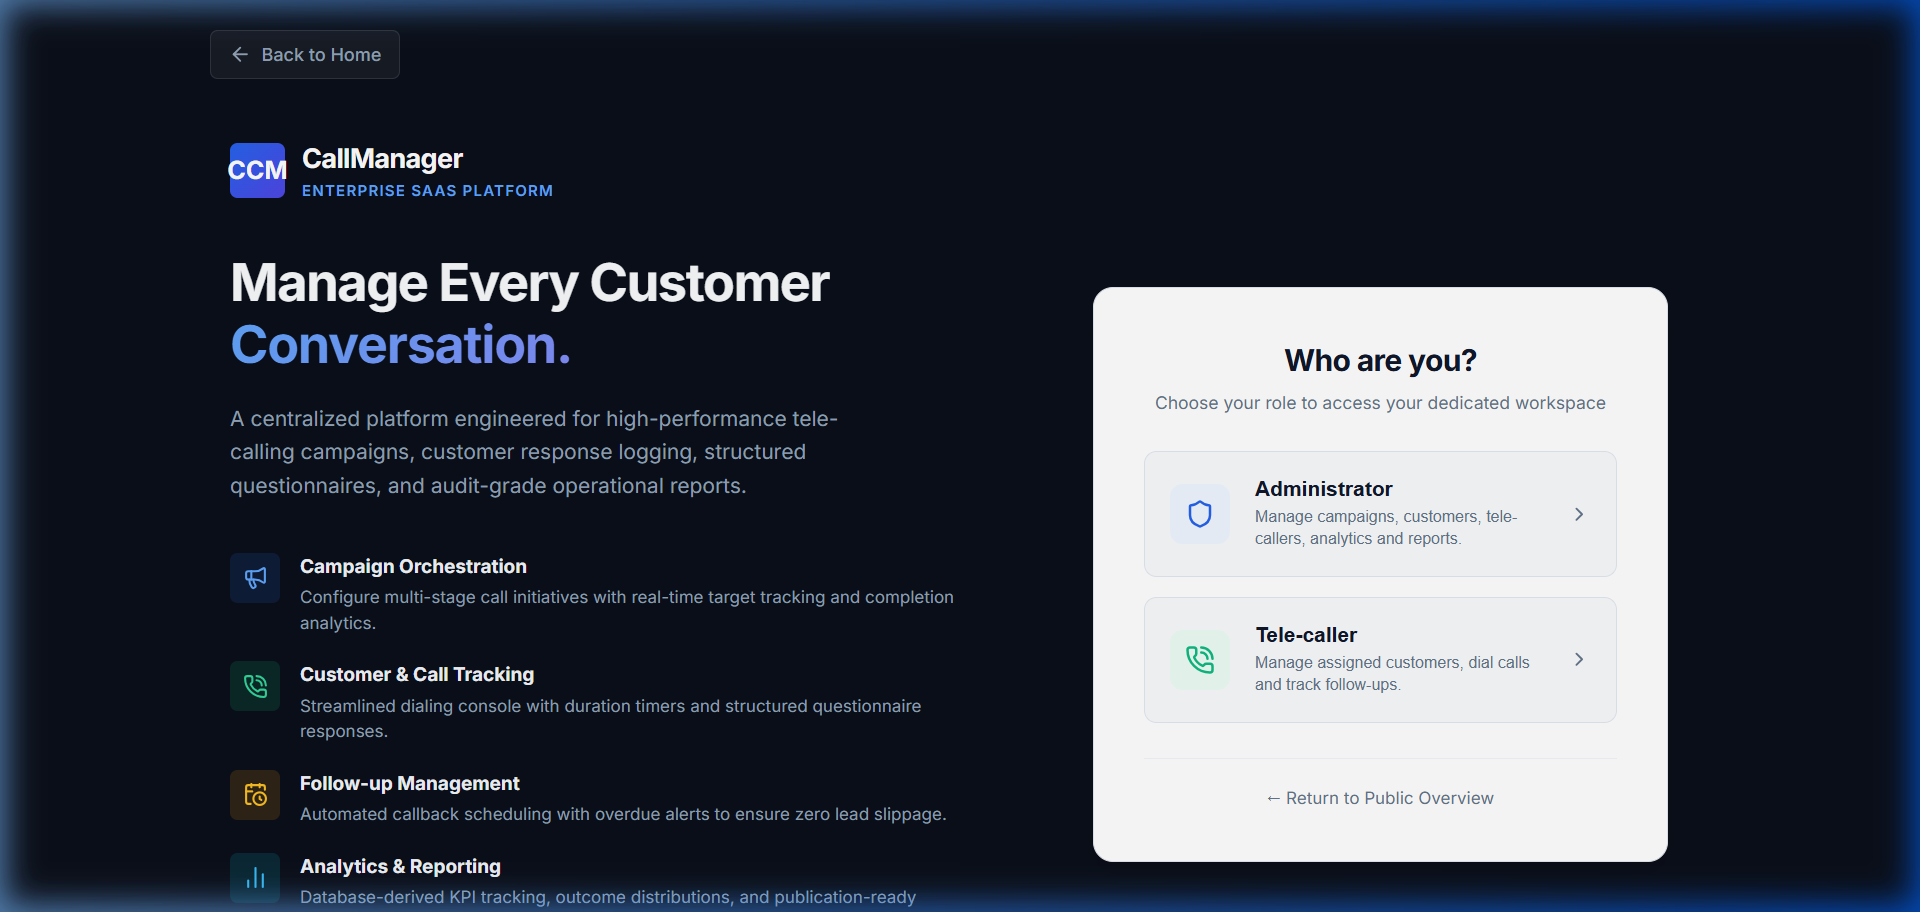
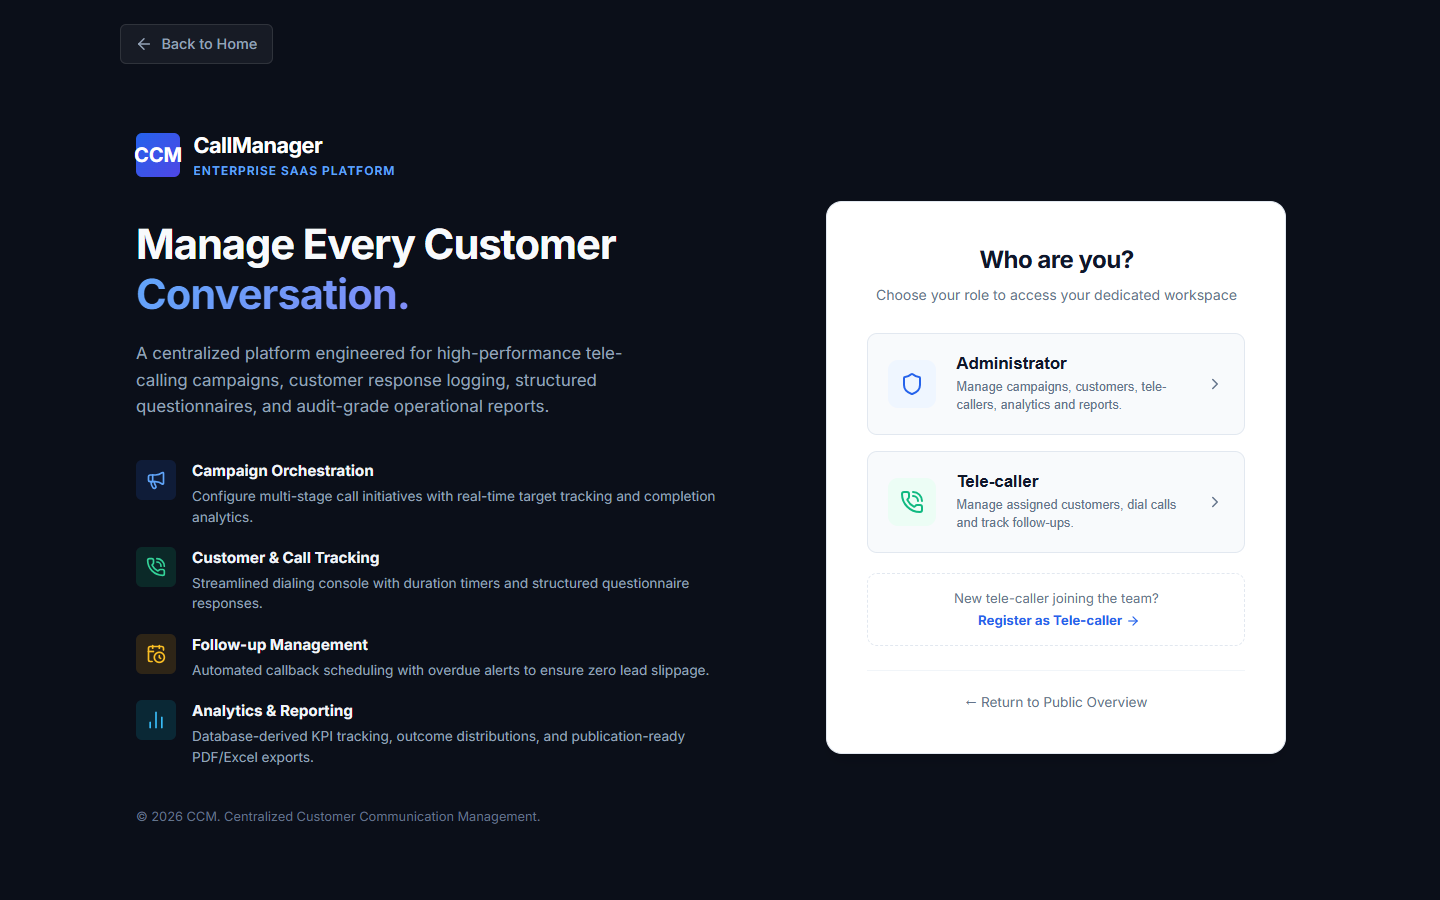
docs: refresh interface screenshots across landing page, dashboards, and operational consoles

Changed region(s): [[0.0, 0.0, 1.0, 1.0], [0.625, 0.5289, 0.8125, 0.6222], [0.0938, 0.1244, 0.2812, 0.2178]]

diff --git a/README.md b/README.md
@@ -38,7 +38,7 @@ A modern, production-ready tele-calling campaign and customer communication mana
 
 ### 2. Role-Based Access Control (RBAC) & Multi-Portal Architecture
 - **Interactive Role Selector**: Intuitive role selection portal with dedicated Administrator and Tele-caller access cards.
-- **Tele-caller Self-Registration (`/register/telecaller/`)**: Dedicated onboarding portal allowing new callers to register with real-time validation, password confirmation, contact info collection, and immediate provisioning into the tele-calling workforce.
+- **Tele-caller Self-Registration (`/register/`)**: Dedicated onboarding portal allowing new callers to register with real-time validation, password confirmation, contact info collection, and immediate provisioning into the tele-calling workforce.
 - **Admin Portal**: Full oversight of campaigns, customer databases, tele-caller workforce, dynamic questionnaires, bulk assignments, centralized analytics, and Report Center.
 - **Tele-caller Workspace**: Streamlined to assigned leads, live calling console with stopwatch duration timer, dynamic questionnaire logging, and callback scheduling.
 - **Strict Role Security**: Enforced via decorators (`@admin_required`, `@telecaller_required`), object-level filtering, and custom 403 Forbidden handlers.
